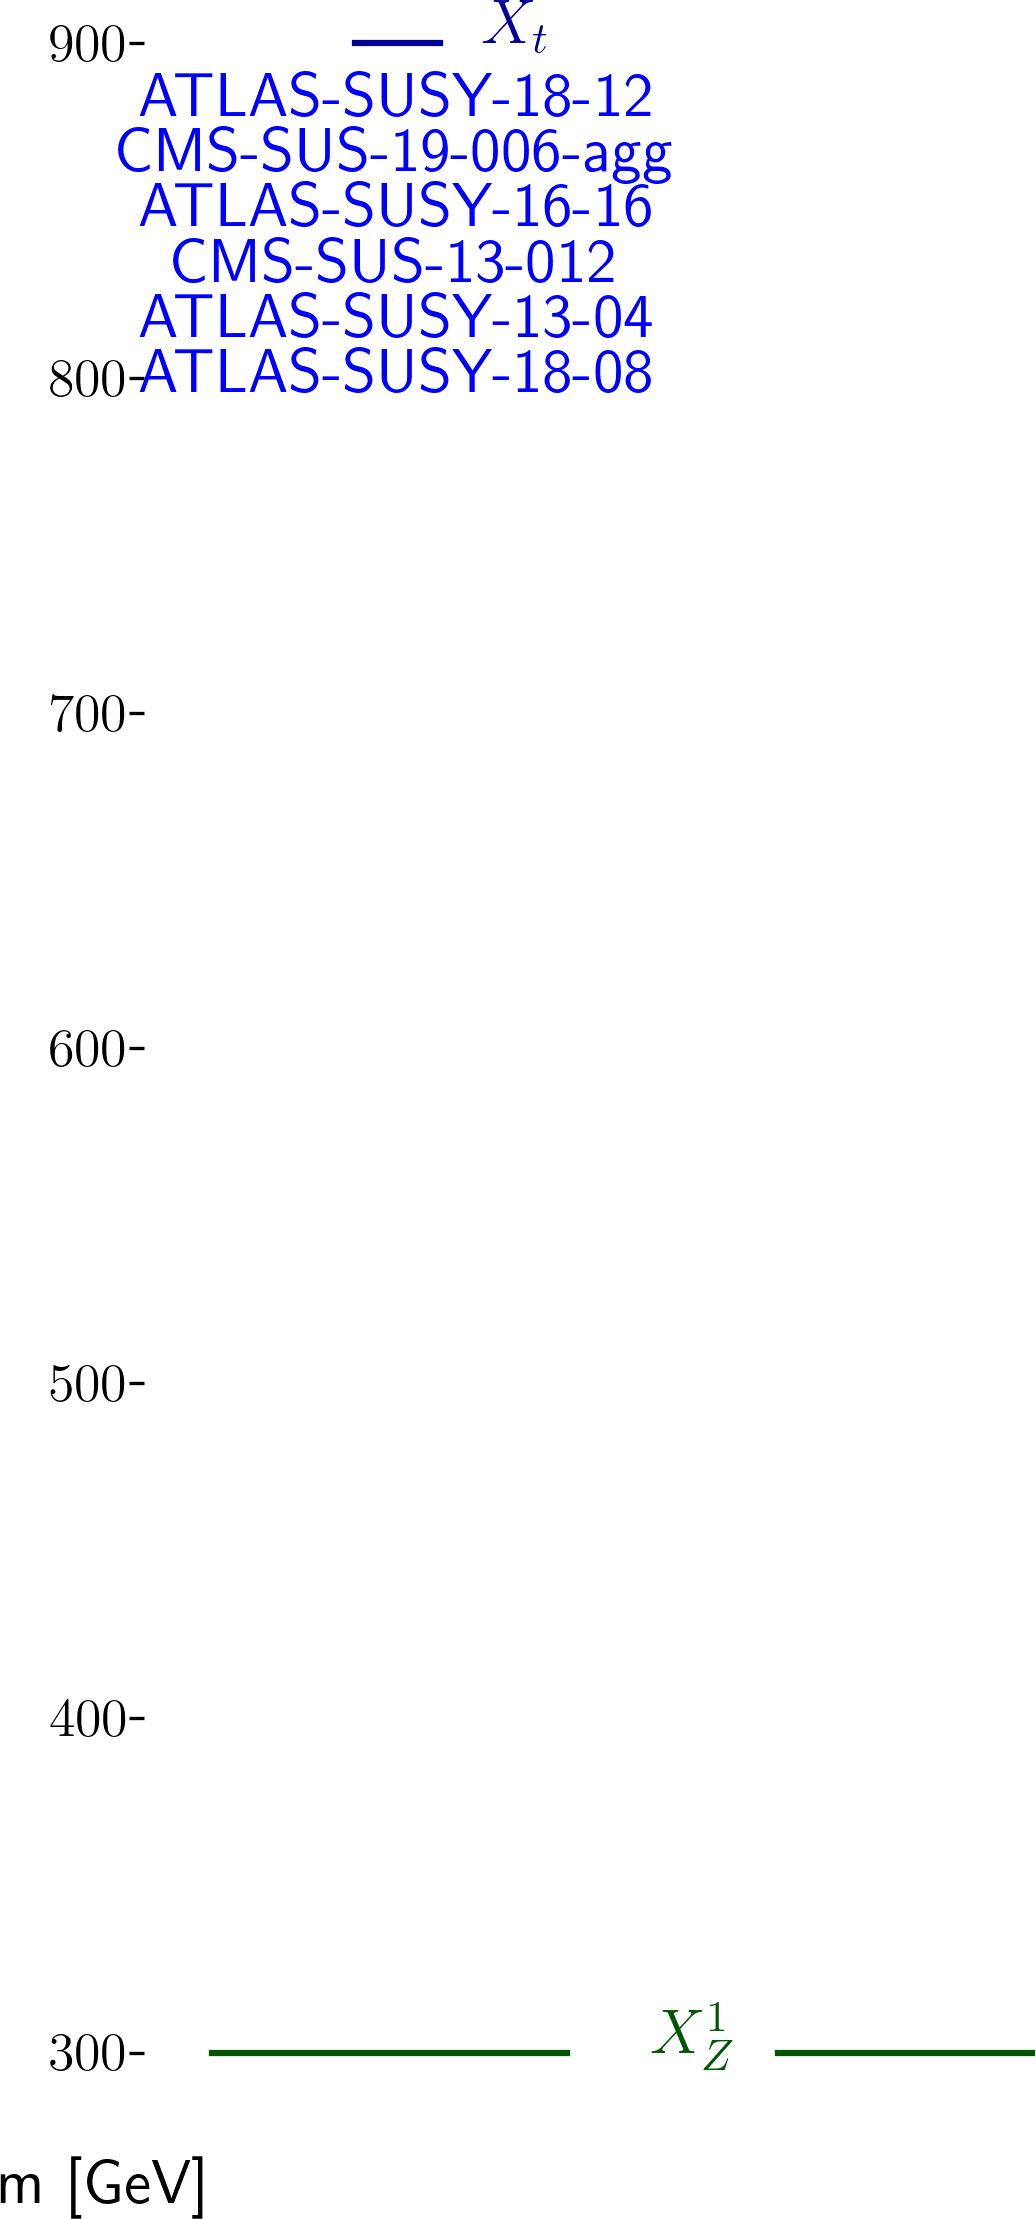
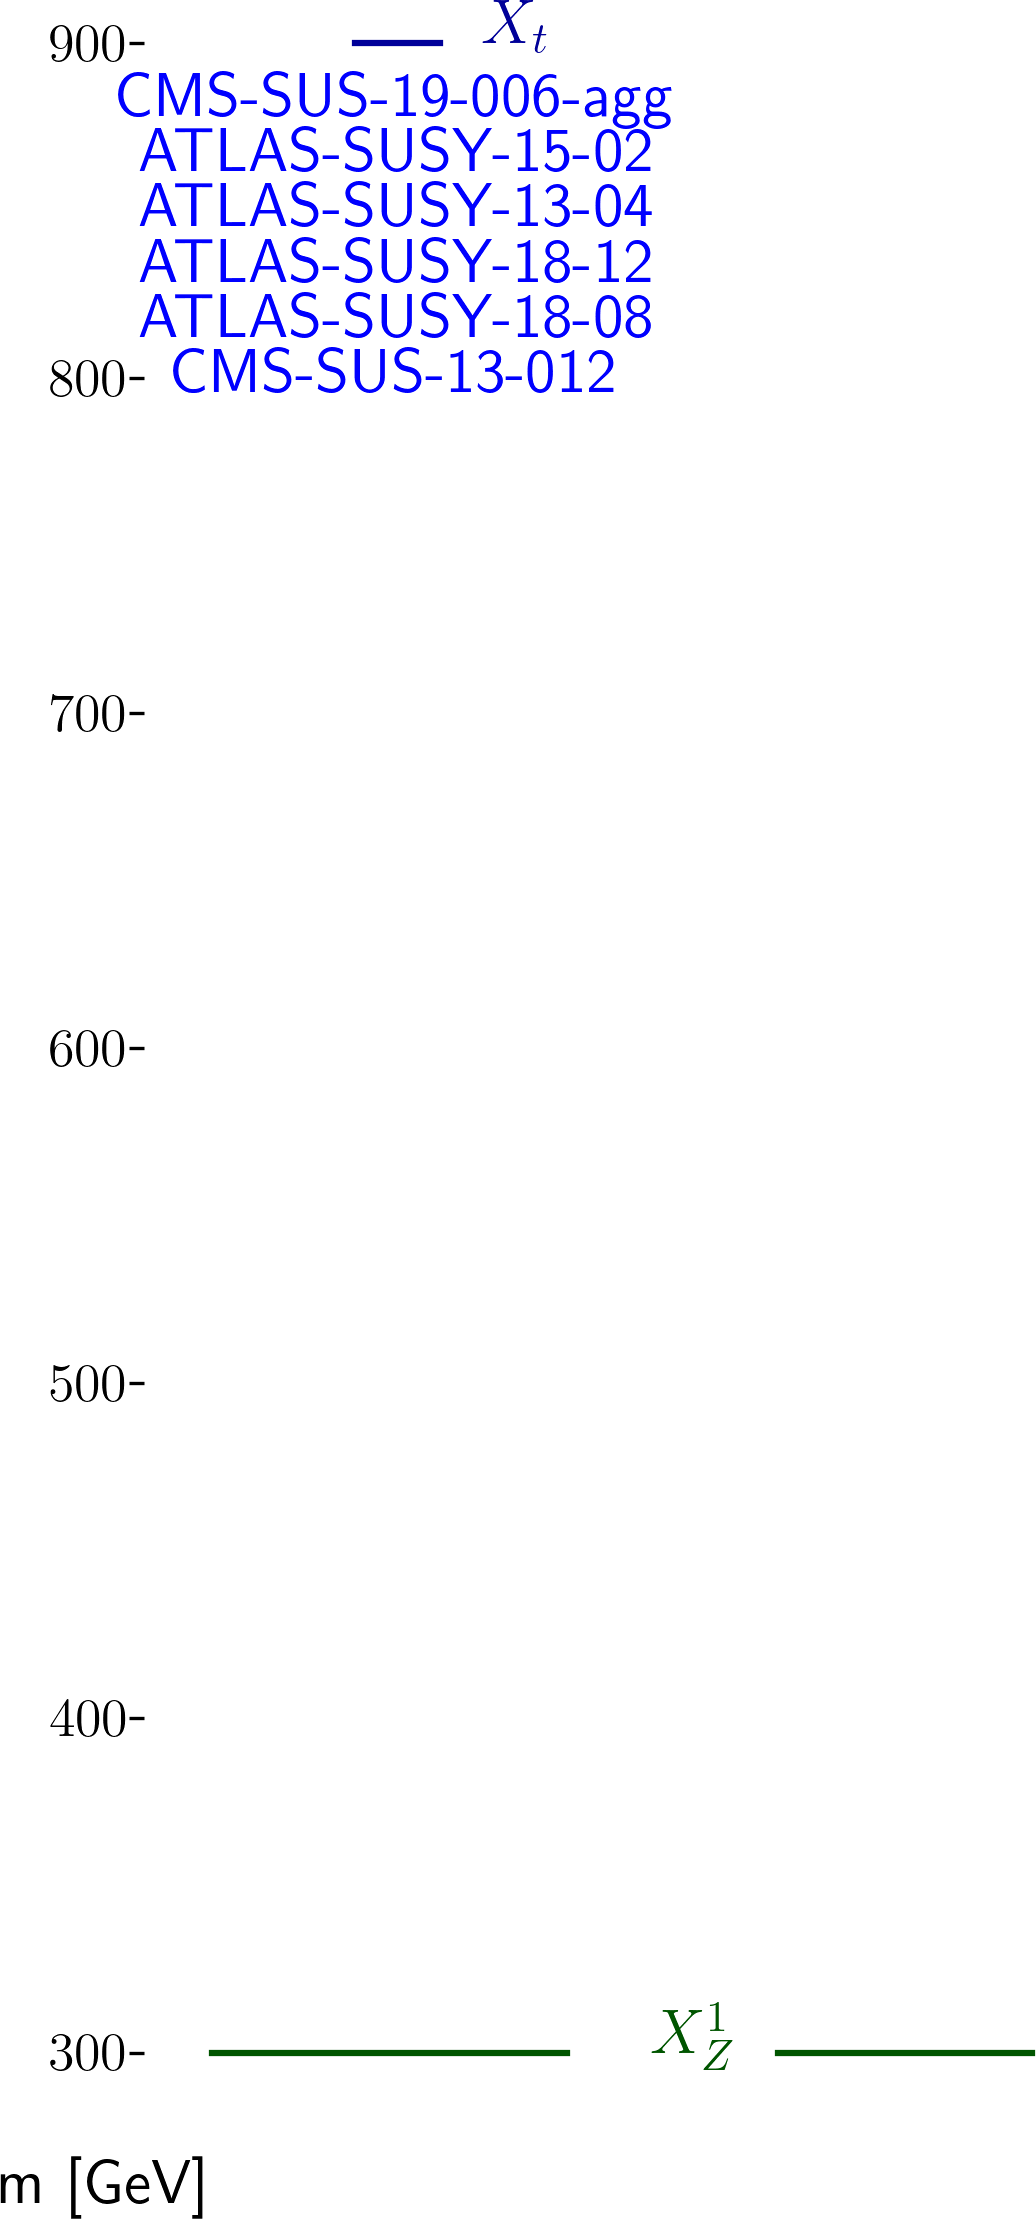
automated update by plotHiscore.py to true_stops_310:     K=None TL=39.79 walkerid=0

Changed region(s): [[0.0927, 0.0311, 0.6486, 0.1866]]

diff --git a/protomodels/true_stops_310/rawnumbers.html b/protomodels/true_stops_310/rawnumbers.html
@@ -1,29 +1,27 @@
 <table>
 <tr><th>Analysis Name</th><th>Type</th><th>Dataset</th><th>Topos</th><th>Observed</th><th>Expected</th><th>Approx &sigma;</th><th>Particles</th><th>Signal</th>
 </tr>
-<tr><td><a href=https://atlas.web.cern.ch/Atlas/GROUPS/PHYSICS/PAPERS/SUSY-2018-12/>ATLAS-SUSY-2018-12</a></td><td>em</td> <td>SRATT</td><td>T2tt</td><td>12</td><td>3.20 +/- 0.50</td><td style="text-align:right">3.5 &sigma;</td><td style="text-align:right">X<sup>1</sup><sub>Z</sub>, X<sub>t</sub></td><td style="text-align:right">8</td></tr>
-<tr><td><a href=http://cms-results.web.cern.ch/cms-results/public-results/publications/SUS-19-006/index.html>CMS-SUS-19-006-agg</a></td><td>comb</td> <td>-</td><td>T2tt</td><td> 4 fb </td><td> 3 fb</td><td style="text-align:right">2.3 &sigma;</td><td style="text-align:right">X<sup>1</sup><sub>Z</sub>, X<sub>t</sub></td><td style="text-align:right">-</td></tr>
-<tr><td><a href=https://atlas.web.cern.ch/Atlas/GROUPS/PHYSICS/PAPERS/SUSY-2018-08/>ATLAS-SUSY-2018-08</a></td><td>em</td> <td>SRSF220</td><td>T2tt</td><td>10</td><td>5.00 +/- 1.00</td><td style="text-align:right">1.8 &sigma;</td><td style="text-align:right">X<sup>1</sup><sub>Z</sub>, X<sub>t</sub></td><td style="text-align:right">5</td></tr>
-<tr><td><a href=https://atlas.web.cern.ch/Atlas/GROUPS/PHYSICS/PAPERS/SUSY-2016-16/>ATLAS-SUSY-2016-16</a></td><td>em</td> <td>tN_med</td><td>T2tt</td><td>49</td><td>36.30 +/- 6.60</td><td style="text-align:right">1.4 &sigma;</td><td style="text-align:right">X<sup>1</sup><sub>Z</sub>, X<sub>t</sub></td><td style="text-align:right">19</td></tr>
-<tr><td><a href=https://atlas.web.cern.ch/Atlas/GROUPS/PHYSICS/PAPERS/SUSY-2013-04/>ATLAS-SUSY-2013-04</a></td><td>em</td> <td>GtGrid_SR_10ij5 ...</td><td>T2tt</td><td>3</td><td>1.37 +/- 0.35</td><td style="text-align:right">1.2 &sigma;</td><td style="text-align:right">X<sup>1</sup><sub>Z</sub>, X<sub>t</sub></td><td style="text-align:right">0</td></tr>
-<tr><td><a href=https://atlas.web.cern.ch/Atlas/GROUPS/PHYSICS/PAPERS/EXOT-2018-06/>ATLAS-EXOT-2018-06</a></td><td>em</td> <td>EM7</td><td>TChiISR</td><td>3991</td><td>3870.00 +/- 80.00</td><td style="text-align:right">1.2 &sigma;</td><td style="text-align:right">X<sup>1</sup><sub>Z</sub></td><td style="text-align:right">5</td></tr>
-<tr><td><a href=https://twiki.cern.ch/twiki/bin/view/CMSPublic/PhysicsResultsSUS13012>CMS-SUS-13-012</a></td><td>em</td> <td>6NJet8_800HT100 ...</td><td>T2tt</td><td>9</td><td>6.00 +/- 2.80</td><td style="text-align:right">0.8 &sigma;</td><td style="text-align:right">X<sup>1</sup><sub>Z</sub>, X<sub>t</sub></td><td style="text-align:right">0</td></tr>
+<tr><td><a href=http://cms-results.web.cern.ch/cms-results/public-results/publications/SUS-19-006/index.html>CMS-SUS-19-006-agg</a></td><td>comb</td> <td>-</td><td>T2tt</td><td> 7 fb </td><td> 4 fb</td><td style="text-align:right">5.0 &sigma;</td><td style="text-align:right">X<sup>1</sup><sub>Z</sub>, X<sub>t</sub></td><td style="text-align:right">-</td></tr>
+<tr><td><a href=https://atlas.web.cern.ch/Atlas/GROUPS/PHYSICS/PAPERS/SUSY-2018-12/>ATLAS-SUSY-2018-12</a></td><td>em</td> <td>SRAT0</td><td>T2tt</td><td>31</td><td>17.30 +/- 1.70</td><td style="text-align:right">2.7 &sigma;</td><td style="text-align:right">X<sup>1</sup><sub>Z</sub>, X<sub>t</sub></td><td style="text-align:right">21</td></tr>
+<tr><td><a href=https://atlas.web.cern.ch/Atlas/GROUPS/PHYSICS/PAPERS/SUSY-2015-02/>ATLAS-SUSY-2015-02</a></td><td>em</td> <td>SR1</td><td>T2tt</td><td>12</td><td>5.50 +/- 0.72</td><td style="text-align:right">2.3 &sigma;</td><td style="text-align:right">X<sup>1</sup><sub>Z</sub>, X<sub>t</sub></td><td style="text-align:right">4</td></tr>
+<tr><td><a href=https://twiki.cern.ch/twiki/bin/view/CMSPublic/PhysicsResultsSUS13012>CMS-SUS-13-012</a></td><td>em</td> <td>3NJet6_1000HT12 ...</td><td>T2tt</td><td>37</td><td>22.80 +/- 5.20</td><td style="text-align:right">1.9 &sigma;</td><td style="text-align:right">X<sup>1</sup><sub>Z</sub>, X<sub>t</sub></td><td style="text-align:right">1</td></tr>
+<tr><td><a href=https://atlas.web.cern.ch/Atlas/GROUPS/PHYSICS/PAPERS/SUSY-2018-08/>ATLAS-SUSY-2018-08</a></td><td>em</td> <td>SRDF220</td><td>T2tt</td><td>7</td><td>3.11 +/- 0.67</td><td style="text-align:right">1.8 &sigma;</td><td style="text-align:right">X<sup>1</sup><sub>Z</sub>, X<sub>t</sub></td><td style="text-align:right">2</td></tr>
+<tr><td><a href=https://atlas.web.cern.ch/Atlas/GROUPS/PHYSICS/PAPERS/SUSY-2013-04/>ATLAS-SUSY-2013-04</a></td><td>em</td> <td>GtGrid_SR_10ij5 ...</td><td>T2tt</td><td>4</td><td>1.37 +/- 0.35</td><td style="text-align:right">1.8 &sigma;</td><td style="text-align:right">X<sup>1</sup><sub>Z</sub>, X<sub>t</sub></td><td style="text-align:right">0</td></tr>
+<tr><td><a href=https://atlas.web.cern.ch/Atlas/GROUPS/PHYSICS/PAPERS/EXOT-2018-06/>ATLAS-EXOT-2018-06</a></td><td>em</td> <td>IM8</td><td>TChiISR</td><td>3412</td><td>3180.00 +/- 130.00</td><td style="text-align:right">1.6 &sigma;</td><td style="text-align:right">X<sup>1</sup><sub>Z</sub></td><td style="text-align:right">6</td></tr>
 </table>
 <table style='color:grey'>
-<tr><th>Not in Best Combo</th><th>Type</th><th>Dataset</th><th>Topos</th><th>Observed</th><th>Expected</th><th>Approx &sigma;</th><th>Particles</th><tr><td><a href=http://cms-results.web.cern.ch/cms-results/public-results/publications/SUS-16-033/index.html>CMS-SUS-16-033</a></td><td>em</td> <td>SR8_Njet5_Nb3_H ...</td><td>T2tt</td><td>30</td><td>19.50 +/- 8.40</td><td style="text-align:right">1.1 &sigma;</td><td style="text-align:right">X<sup>1</sup><sub>Z</sub>, X<sub>t</sub></td><td style="text-align:right">15</td></tr>
-<tr><td><a href=https://atlas.web.cern.ch/Atlas/GROUPS/PHYSICS/PAPERS/SUSY-2015-02/>ATLAS-SUSY-2015-02</a></td><td>em</td> <td>SR3</td><td>T2tt</td><td>2</td><td>1.03 +/- 0.18</td><td style="text-align:right">0.9 &sigma;</td><td style="text-align:right">X<sup>1</sup><sub>Z</sub>, X<sub>t</sub></td><td style="text-align:right">0</td></tr>
-<tr><td><a href=http://cms-results.web.cern.ch/cms-results/public-results/publications/SUS-16-033/index.html>CMS-SUS-16-033</a></td><td>em</td> <td>SR7_Njet3_Nb1_H ...</td><td>T2tt</td><td>127</td><td>113.00 +/- 18.00</td><td style="text-align:right">0.7 &sigma;</td><td style="text-align:right">X<sup>1</sup><sub>Z</sub>, X<sub>t</sub></td><td style="text-align:right">21</td></tr>
-<tr><td><a href=http://cms-results.web.cern.ch/cms-results/public-results/publications/SUS-16-033/index.html>CMS-SUS-16-033</a></td><td>em</td> <td>SR12_Njet5_Nb1_ ...</td><td>T2tt</td><td>49</td><td>42.20 +/- 9.70</td><td style="text-align:right">0.6 &sigma;</td><td style="text-align:right">X<sup>1</sup><sub>Z</sub>, X<sub>t</sub></td><td style="text-align:right">7</td></tr>
-<tr><td><a href=http://cms-results.web.cern.ch/cms-results/public-results/publications/SUS-16-033/index.html>CMS-SUS-16-033</a></td><td>em</td> <td>SR11_Njet7_Nb1_ ...</td><td>T2tt</td><td>1015</td><td>969.00 +/- 80.00</td><td style="text-align:right">0.5 &sigma;</td><td style="text-align:right">X<sup>1</sup><sub>Z</sub>, X<sub>t</sub></td><td style="text-align:right">41</td></tr>
-<tr><td><a href=http://cms-results.web.cern.ch/cms-results/public-results/publications/SUS-16-033/index.html>CMS-SUS-16-033</a></td><td>em</td> <td>SR9_NJet5_Nb2_H ...</td><td>T2tt</td><td>6</td><td>4.40 +/- 3.40</td><td style="text-align:right">0.4 &sigma;</td><td style="text-align:right">X<sup>1</sup><sub>Z</sub>, X<sub>t</sub></td><td style="text-align:right">0</td></tr>
-<tr><td><a href=http://cms-results.web.cern.ch/cms-results/public-results/publications/SUS-16-033/index.html>CMS-SUS-16-033</a></td><td>em</td> <td>SR6_Njet2_Nb2_H ...</td><td>T2tt</td><td>206</td><td>196.00 +/- 28.00</td><td style="text-align:right">0.3 &sigma;</td><td style="text-align:right">X<sup>1</sup><sub>Z</sub>, X<sub>t</sub></td><td style="text-align:right">30</td></tr>
-<tr><td><a href=http://cms-results.web.cern.ch/cms-results/public-results/publications/SUS-16-033/index.html>CMS-SUS-16-033</a></td><td>em</td> <td>SR1_Njet2_Nb0_H ...</td><td>T2tt</td><td>7690</td><td>7584.00 +/- 433.00</td><td style="text-align:right">0.2 &sigma;</td><td style="text-align:right">X<sup>1</sup><sub>Z</sub>, X<sub>t</sub></td><td style="text-align:right">23</td></tr>
-<tr><td><a href=https://atlas.web.cern.ch/Atlas/GROUPS/PHYSICS/PAPERS/SUSY-2015-02/>ATLAS-SUSY-2015-02</a></td><td>em</td> <td>SR2</td><td>T2tt</td><td>1</td><td>1.25 +/- 0.26</td><td style="text-align:right">-0.1 &sigma;</td><td style="text-align:right">X<sup>1</sup><sub>Z</sub>, X<sub>t</sub></td><td style="text-align:right">1</td></tr>
-<tr><td><a href=http://cms-results.web.cern.ch/cms-results/public-results/publications/SUS-16-033/index.html>CMS-SUS-16-033</a></td><td>em</td> <td>SR4_Njet5_Nb0_H ...</td><td>T2tt</td><td>22</td><td>23.00 +/- 6.50</td><td style="text-align:right">-0.1 &sigma;</td><td style="text-align:right">X<sup>1</sup><sub>Z</sub>, X<sub>t</sub></td><td style="text-align:right">0</td></tr>
-<tr><td><a href=http://cms-results.web.cern.ch/cms-results/public-results/publications/SUS-16-050/index.html>CMS-SUS-16-050-agg</a></td><td>comb</td> <td>-</td><td>T2tt</td><td> 1 fb </td><td> 1 fb</td><td style="text-align:right">-0.3 &sigma;</td><td style="text-align:right">X<sup>1</sup><sub>Z</sub>, X<sub>t</sub></td><td style="text-align:right">-</td></tr>
-<tr><td><a href=https://atlas.web.cern.ch/Atlas/GROUPS/PHYSICS/PAPERS/SUSY-2015-02/>ATLAS-SUSY-2015-02</a></td><td>em</td> <td>SR1</td><td>T2tt</td><td>4</td><td>5.50 +/- 0.72</td><td style="text-align:right">-0.6 &sigma;</td><td style="text-align:right">X<sup>1</sup><sub>Z</sub>, X<sub>t</sub></td><td style="text-align:right">1</td></tr>
+<tr><th>Not in Best Combo</th><th>Type</th><th>Dataset</th><th>Topos</th><th>Observed</th><th>Expected</th><th>Approx &sigma;</th><th>Particles</th><tr><td><a href=http://cms-results.web.cern.ch/cms-results/public-results/publications/SUS-16-033/index.html>CMS-SUS-16-033</a></td><td>em</td> <td>SR12_Njet5_Nb1_ ...</td><td>T2tt</td><td>68</td><td>42.20 +/- 9.70</td><td style="text-align:right">2.1 &sigma;</td><td style="text-align:right">X<sup>1</sup><sub>Z</sub>, X<sub>t</sub></td><td style="text-align:right">8</td></tr>
+<tr><td><a href=http://cms-results.web.cern.ch/cms-results/public-results/publications/SUS-16-033/index.html>CMS-SUS-16-033</a></td><td>em</td> <td>SR6_Njet2_Nb2_H ...</td><td>T2tt</td><td>253</td><td>196.00 +/- 28.00</td><td style="text-align:right">1.8 &sigma;</td><td style="text-align:right">X<sup>1</sup><sub>Z</sub>, X<sub>t</sub></td><td style="text-align:right">50</td></tr>
+<tr><td><a href=http://cms-results.web.cern.ch/cms-results/public-results/publications/SUS-16-050/index.html>CMS-SUS-16-050-agg</a></td><td>comb</td> <td>-</td><td>T2tt</td><td> 2 fb </td><td> 1 fb</td><td style="text-align:right">1.5 &sigma;</td><td style="text-align:right">X<sup>1</sup><sub>Z</sub>, X<sub>t</sub></td><td style="text-align:right">-</td></tr>
+<tr><td><a href=https://atlas.web.cern.ch/Atlas/GROUPS/PHYSICS/PAPERS/SUSY-2016-16/>ATLAS-SUSY-2016-16</a></td><td>em</td> <td>tN_med</td><td>T2tt</td><td>49</td><td>36.30 +/- 6.60</td><td style="text-align:right">1.4 &sigma;</td><td style="text-align:right">X<sup>1</sup><sub>Z</sub>, X<sub>t</sub></td><td style="text-align:right">21</td></tr>
+<tr><td><a href=http://cms-results.web.cern.ch/cms-results/public-results/publications/SUS-16-033/index.html>CMS-SUS-16-033</a></td><td>em</td> <td>SR11_Njet7_Nb1_ ...</td><td>T2tt</td><td>1036</td><td>969.00 +/- 80.00</td><td style="text-align:right">0.8 &sigma;</td><td style="text-align:right">X<sup>1</sup><sub>Z</sub>, X<sub>t</sub></td><td style="text-align:right">63</td></tr>
+<tr><td><a href=http://cms-results.web.cern.ch/cms-results/public-results/publications/SUS-16-033/index.html>CMS-SUS-16-033</a></td><td>em</td> <td>SR2_Njet3_Nb0_H ...</td><td>T2tt</td><td>62</td><td>55.20 +/- 11.50</td><td style="text-align:right">0.5 &sigma;</td><td style="text-align:right">X<sup>1</sup><sub>Z</sub>, X<sub>t</sub></td><td style="text-align:right">2</td></tr>
+<tr><td><a href=http://cms-results.web.cern.ch/cms-results/public-results/publications/SUS-16-033/index.html>CMS-SUS-16-033</a></td><td>em</td> <td>SR8_Njet5_Nb3_H ...</td><td>T2tt</td><td>21</td><td>19.50 +/- 8.40</td><td style="text-align:right">0.2 &sigma;</td><td style="text-align:right">X<sup>1</sup><sub>Z</sub>, X<sub>t</sub></td><td style="text-align:right">9</td></tr>
+<tr><td><a href=http://cms-results.web.cern.ch/cms-results/public-results/publications/SUS-16-033/index.html>CMS-SUS-16-033</a></td><td>em</td> <td>SR1_Njet2_Nb0_H ...</td><td>T2tt</td><td>7652</td><td>7584.00 +/- 433.00</td><td style="text-align:right">0.2 &sigma;</td><td style="text-align:right">X<sup>1</sup><sub>Z</sub>, X<sub>t</sub></td><td style="text-align:right">19</td></tr>
+<tr><td><a href=http://cms-results.web.cern.ch/cms-results/public-results/publications/SUS-16-033/index.html>CMS-SUS-16-033</a></td><td>em</td> <td>SR7_Njet3_Nb1_H ...</td><td>T2tt</td><td>115</td><td>113.00 +/- 18.00</td><td style="text-align:right">0.1 &sigma;</td><td style="text-align:right">X<sup>1</sup><sub>Z</sub>, X<sub>t</sub></td><td style="text-align:right">7</td></tr>
+<tr><td><a href=http://cms-results.web.cern.ch/cms-results/public-results/publications/SUS-16-033/index.html>CMS-SUS-16-033</a></td><td>em</td> <td>SR4_Njet5_Nb0_H ...</td><td>T2tt</td><td>23</td><td>23.00 +/- 6.50</td><td style="text-align:right">0.0 &sigma;</td><td style="text-align:right">X<sup>1</sup><sub>Z</sub>, X<sub>t</sub></td><td style="text-align:right">0</td></tr>
+<tr><td><a href=http://cms-results.web.cern.ch/cms-results/public-results/publications/SUS-16-033/index.html>CMS-SUS-16-033</a></td><td>em</td> <td>SR3_Njet5_Nb0_H ...</td><td>T2tt</td><td>791</td><td>806.00 +/- 57.00</td><td style="text-align:right">-0.2 &sigma;</td><td style="text-align:right">X<sup>1</sup><sub>Z</sub>, X<sub>t</sub></td><td style="text-align:right">11</td></tr>
 <tr><td><a href=http://cms-results.web.cern.ch/cms-results/public-results/publications/SUS-16-033/index.html>CMS-SUS-16-033</a></td><td>em</td> <td>SR10_Njet9_Nb3_ ...</td><td>T2tt</td><td>0</td><td>0.00 +/- 1.30</td><td style="text-align:right">-0.8 &sigma;</td><td style="text-align:right">X<sup>1</sup><sub>Z</sub>, X<sub>t</sub></td><td style="text-align:right">0</td></tr>
-<tr><td><a href=http://cms-results.web.cern.ch/cms-results/public-results/publications/SUS-16-033/index.html>CMS-SUS-16-033</a></td><td>em</td> <td>SR3_Njet5_Nb0_H ...</td><td>T2tt</td><td>758</td><td>806.00 +/- 57.00</td><td style="text-align:right">-0.7 &sigma;</td><td style="text-align:right">X<sup>1</sup><sub>Z</sub>, X<sub>t</sub></td><td style="text-align:right">15</td></tr>
-<tr><td><a href=http://cms-results.web.cern.ch/cms-results/public-results/publications/EXO-20-004/>CMS-EXO-20-004</a></td><td>comb</td> <td>-</td><td>TChiISR</td><td> 2e+01 fb </td><td> 2e+01 fb</td><td style="text-align:right">-1.1 &sigma;</td><td style="text-align:right">X<sup>1</sup><sub>Z</sub></td><td style="text-align:right">-</td></tr>
-<tr><td><a href=http://cms-results.web.cern.ch/cms-results/public-results/publications/SUS-16-033/index.html>CMS-SUS-16-033</a></td><td>em</td> <td>SR2_Njet3_Nb0_H ...</td><td>T2tt</td><td>28</td><td>55.20 +/- 11.50</td><td style="text-align:right">-2.1 &sigma;</td><td style="text-align:right">X<sup>1</sup><sub>Z</sub>, X<sub>t</sub></td><td style="text-align:right">0</td></tr>
+<tr><td><a href=http://cms-results.web.cern.ch/cms-results/public-results/publications/EXO-20-004/>CMS-EXO-20-004</a></td><td>comb</td> <td>-</td><td>TChiISR</td><td> 3e+01 fb </td><td> 2e+01 fb</td><td style="text-align:right">-0.9 &sigma;</td><td style="text-align:right">X<sup>1</sup><sub>Z</sub></td><td style="text-align:right">-</td></tr>
+<tr><td><a href=http://cms-results.web.cern.ch/cms-results/public-results/publications/SUS-16-033/index.html>CMS-SUS-16-033</a></td><td>em</td> <td>SR9_NJet5_Nb2_H ...</td><td>T2tt</td><td>1</td><td>4.40 +/- 3.40</td><td style="text-align:right">-1.2 &sigma;</td><td style="text-align:right">X<sup>1</sup><sub>Z</sub>, X<sub>t</sub></td><td style="text-align:right">1</td></tr>
 </table>

diff --git a/protomodels/true_stops_310/index.html b/protomodels/true_stops_310/index.html
@@ -1,24 +1,24 @@
 <html>
 <body>
 <center>
-<table><td><h1>Current best protomodel: <i>K</i>=None, <i>TL</i>=23.56</h1><td><img height=60px src=https://smodels.github.io//protomodels/logos/protomodel_lego.png></table>
+<table><td><h1>Current best protomodel: <i>K</i>=None, <i>TL</i>=39.79</h1><td><img height=60px src=https://smodels.github.io//protomodels/logos/protomodel_lego.png></table>
 </center>
 <b><a href=./hiscore.slha>ProtoModel</a> <a href=./pmodel.dict>(dict)</a> produced with <a href=https://smodels.github.io//docs/Validation310_stops1>database v3.1.0_stops1</a>, combination strategy <a href=./matrix.png>aggressive</a> in walker 0 step 0.</b> <br>
 <table width=80%>
 <tr><td>
 <br><b>Critics:</b> passed both critics<br>
-<br><b>LLHD Critic:</b> CMS-SUS-19-006-agg:combined, ATLAS-SUSY-2018-12:SRAT0, ATLAS-SUSY-2016-16:tN_med, ATLAS-SUSY-2018-08:SRDF220:: <span style='color: darkgreen;'>robs=0.81, rexp=2.43</span><br>
+<br><b>LLHD Critic:</b> CMS-SUS-19-006-agg:combined, ATLAS-SUSY-2018-12:SRAT0, ATLAS-SUSY-2016-16:tN_med, ATLAS-SUSY-2018-08:SRSF220:: <span style='color: darkgreen;'>robs=0.88, rexp=4.05</span><br>
 <br><b>24 predictions available. Highest r values are:</b><br><ul>
-<li><a href=http://cms-results.web.cern.ch/cms-results/public-results/publications/SUS-20-002/index.html>CMS-SUS-20-002</a>:ul:T2tt r=0.85, r<sub>exp</sub>=5.34<br>
-<li><a href=http://cms-results.web.cern.ch/cms-results/public-results/publications/SUS-19-010/index.html>CMS-SUS-19-010</a>:ul:T2tt r=0.81, r<sub>exp</sub>=4.17<br>
-<li><a href=http://cms-results.web.cern.ch/cms-results/public-results/publications/SUS-19-009/index.html>CMS-SUS-19-009</a>:ul:T2tt r=0.76, r<sub>exp</sub>=3.07<br>
-<li><a href=http://cms-results.web.cern.ch/cms-results/public-results/publications/SUS-16-050/index.html>CMS-SUS-16-050</a>:ul:T2tt r=0.68, r<sub>exp</sub>=2.08<br>
+<li><a href=http://cms-results.web.cern.ch/cms-results/public-results/publications/SUS-20-002/index.html>CMS-SUS-20-002</a>:ul:T2tt r=1.40, r<sub>exp</sub>=8.83<br>
+<li><a href=http://cms-results.web.cern.ch/cms-results/public-results/publications/SUS-19-010/index.html>CMS-SUS-19-010</a>:ul:T2tt r=1.34, r<sub>exp</sub>=6.89<br>
+<li><a href=http://cms-results.web.cern.ch/cms-results/public-results/publications/SUS-19-009/index.html>CMS-SUS-19-009</a>:ul:T2tt r=1.25, r<sub>exp</sub>=5.07<br>
+<li><a href=http://cms-results.web.cern.ch/cms-results/public-results/publications/SUS-16-050/index.html>CMS-SUS-16-050</a>:ul:T2tt r=1.12, r<sub>exp</sub>=3.43<br>
 </ul>
-<td><img width=600px src=./texdoc.png?1758015399>
-<br><span style='font-size: smaller; color: darkred;'>Last updated: Tue Sep 16 11:36:39 2025</span>
+<td><img width=600px src=./texdoc.png?1758031112>
+<br><span style='font-size: smaller; color: darkred;'>Last updated: Tue Sep 16 15:58:32 2025</span>
 </table><table style="width:80%">
-<td width=45%><img height=580px src=./ruler.png?1758015399><td width=55%><img height=220px src=./decays.png?1758015399>
-<font size=-3><iframe type="text/html" height="350px" width="100%" frameborder="0" src="./rawnumbers.html?1758015399"></iframe></font>
+<td width=45%><img height=580px src=./ruler.png?1758031112><td width=55%><img height=220px src=./decays.png?1758031112>
+<font size=-3><iframe type="text/html" height="350px" width="100%" frameborder="0" src="./rawnumbers.html?1758031112"></iframe></font>
 </table>
 </body>
 </html>
